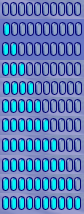
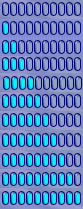
added function to interpret template match, updated some images

diff --git a/main.py b/main.py
@@ -3,7 +3,7 @@ from skimage.io import imread, imshow
 from skimage.color import rgb2gray
 from skimage.feature import match_template
 import matplotlib.pyplot as plt
-from slice import create_slices
+from slice import create_slices, interpret_match
 
 INTEREST_ORDER = np.array(['Politics', 'Money', 'Environment',
                            'Crime', 'Entertainment', 'Culture',
@@ -12,16 +12,18 @@ INTEREST_ORDER = np.array(['Politics', 'Money', 'Environment',
                            'Work', 'Weather', 'Animals',
                            'School', 'Toys', 'Sci-Fi'])
 
-interests = imread('example.PNG')[:, :, :3]
+interests = imread('example2.PNG')[:, :, :3]
 templates_grey = imread('../SecAspCalc/data/templates.png')[:, :, :3]
 plt.figure(num=None, figsize=(8, 6), dpi=80)
 interests_grey = interests
 slices = create_slices(interests)
-slice = slices[4]
+slice = slices[10]
 
 result = match_template(templates_grey, slice)
 ij = np.unravel_index(np.argmax(result), result.shape)
 x, y = ij[1], ij[0]
+print(x, y)
+print(interpret_match(y))
 
 fig = plt.figure(figsize=(8, 3))
 ax1 = plt.subplot(1, 3, 1)
@@ -35,7 +37,6 @@ ax2.imshow(templates_grey)
 ax2.set_axis_off()
 ax2.set_title('image')
 # highlight matched region
-print(result.shape)
 hcoin, wcoin = slice.shape[:2]
 rect = plt.Rectangle((x, y), wcoin, hcoin, edgecolor='r', facecolor='none')
 ax2.add_patch(rect)

diff --git a/slice.py b/slice.py
@@ -6,7 +6,6 @@ def create_slices(interest):
     start_x = 4
     len_x = 82
     offset_x = 28
-    print(interest.shape[1])
     for i in range(18):
         # first column
         if i % 3 == 0:
@@ -22,3 +21,34 @@ def create_slices(interest):
         if start_x > interest.shape[1]:
             start_x = 4
     return slices
+
+
+def interpret_match(y_value):
+    """
+    :param y_value: y_coord of template match
+    :return: number of bars filled
+    """
+    if y_value < 18 * 1:
+        return 0
+    if y_value < 18 * 2:
+        return 1
+    if y_value < 18 * 3:
+        return 2
+    if y_value < 18 * 4:
+        return 3
+    if y_value < 18 * 5:
+        return 4
+    if y_value < 18 * 6:
+        return 5
+    if y_value < 18 * 7:
+        return 6
+    if y_value < 18 * 8:
+        return 7
+    if y_value < 18 * 9:
+        return 8
+    if y_value < 18 * 10:
+        return 9
+    if y_value < 18 * 11:
+        return 10
+    else:
+        return -1
